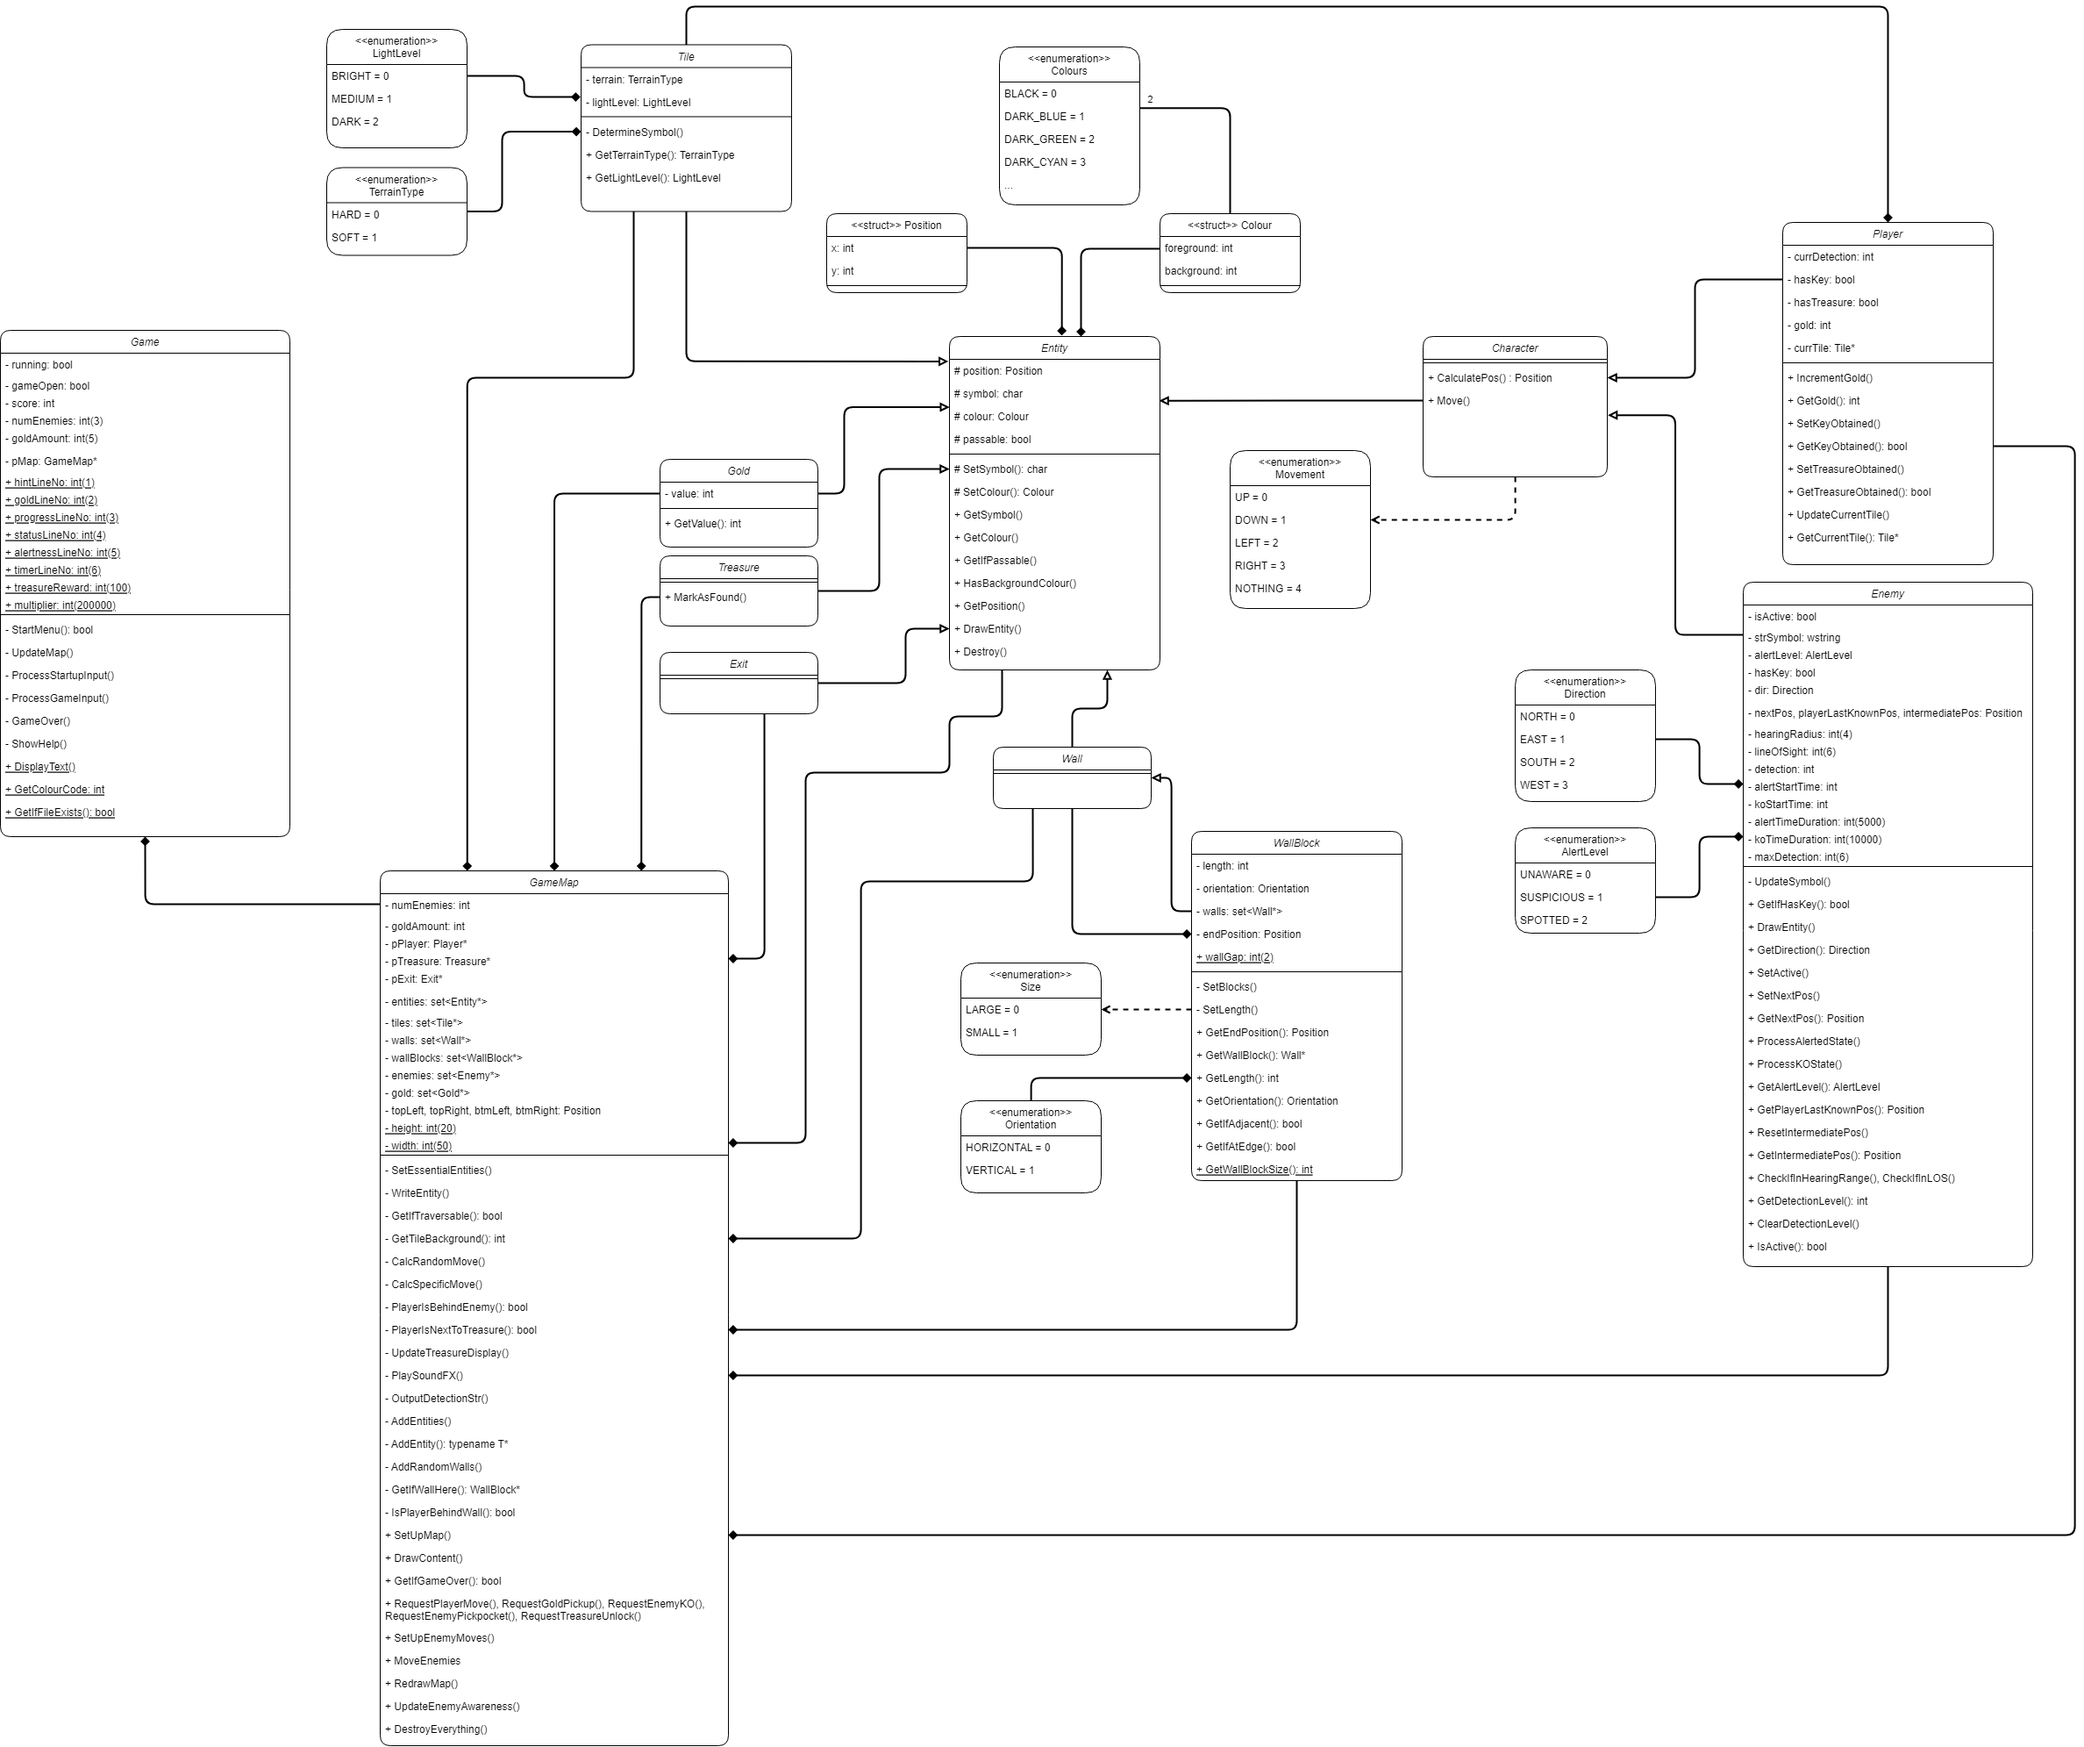
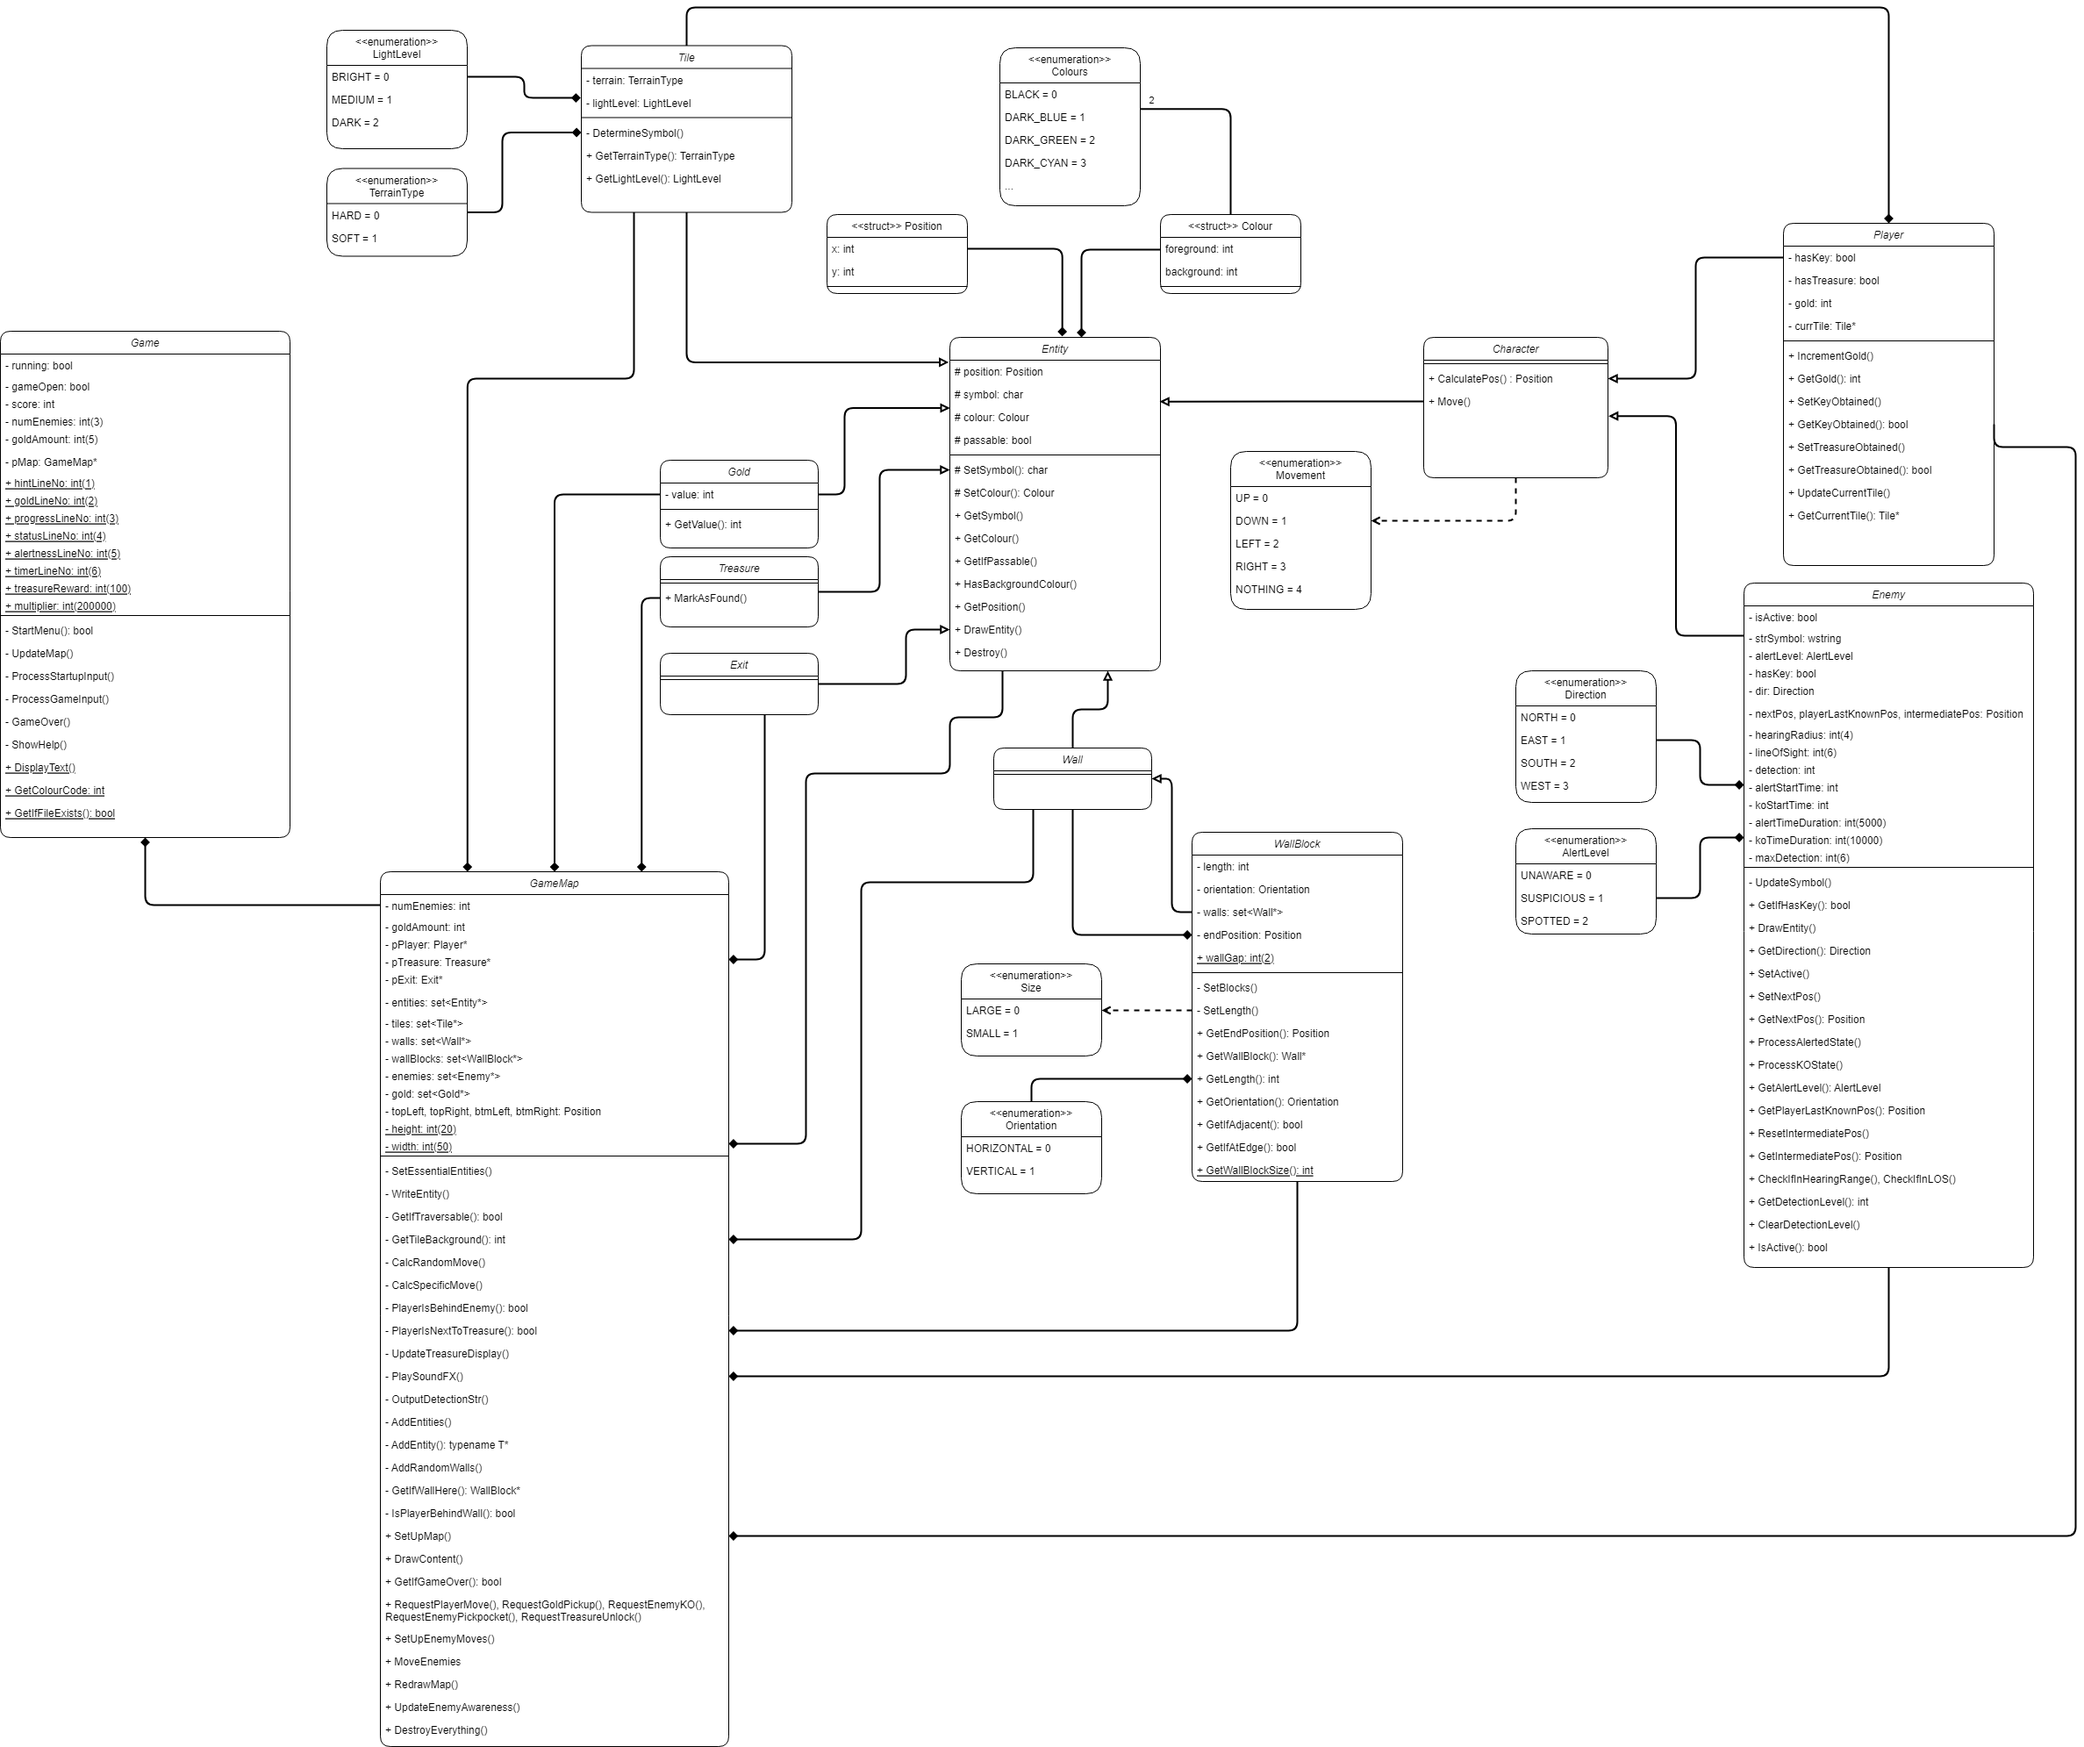
Removed unused vars, updated diagrams, moved getting tile info out of for loop (only needed once)

diff --git a/src/cpp/game.cpp b/src/cpp/game.cpp
@@ -795,12 +795,12 @@ void GameMap::UpdateEnemyAwareness(int currTimeMS)
 		playerPos = pPlayer->GetPosition();
 	}
 
+	terrain		= pPlayer->GetCurrentTile()->GetTerrainType();
+	lightLevel	= pPlayer->GetCurrentTile()->GetLightLevel();
+
 	for (int i = 0; i < enemies.size(); i++)
 	{
 		currEnemy = enemies[i];
-
-		terrain		= pPlayer->GetCurrentTile()->GetTerrainType();
-		lightLevel	= pPlayer->GetCurrentTile()->GetLightLevel();
 
 		if (terrain == Tile::HARD && checkHearingThisTurn)
 		{
@@ -1348,7 +1348,7 @@ void GameMap::MoveEnemies()
 		newPos = currEnemy->GetNextPos();
 
 		// If enemy is going to move - must previously have been on a walkable tile, so therefore replace it with whatever existing tile was there
-		if (!(oldPos == newPos) && currEnemy->IsActive()) // Check if active in the instance an enemy had a move prepared 10 iterations ago but the player has since knocked them out
+		if (!(oldPos == newPos) && currEnemy->IsActive()) // Check if active in the instance an enemy had a move prepared 30 iterations ago but the player has since knocked them out
 		{
 			while (j < tiles.size() && !found)
 			{

diff --git a/src/cpp/main.cpp b/src/cpp/main.cpp
@@ -9,7 +9,7 @@ using namespace std;
 int main()
 {
     _setmode(_fileno(stdout), _O_U16TEXT); // To allow for unicode characters
-    srand(time((time_t*)NULL)); // To improve the "true" randomness of rand()
+    srand(time((time_t*)NULL)); // seed rand() with the time to improve the "true" randomness
 
     wcout << "Loading game...\n";
     Game game;

diff --git a/src/h/player.h b/src/h/player.h
@@ -14,7 +14,6 @@ class Player : public Character
 public:
 	Player(int x, int y, ...) : Character(x, y)
 	{
-		currDetection		= 0;
 		hasKey				= false;
 		hasTreasure			= false;
 		passable			= false;
@@ -37,7 +36,6 @@ public:
 	Tile*			GetCurrentTile();
 
 private:
-	int		currDetection;
 	bool	hasKey;
 	bool	hasTreasure;
 	int		gold;
